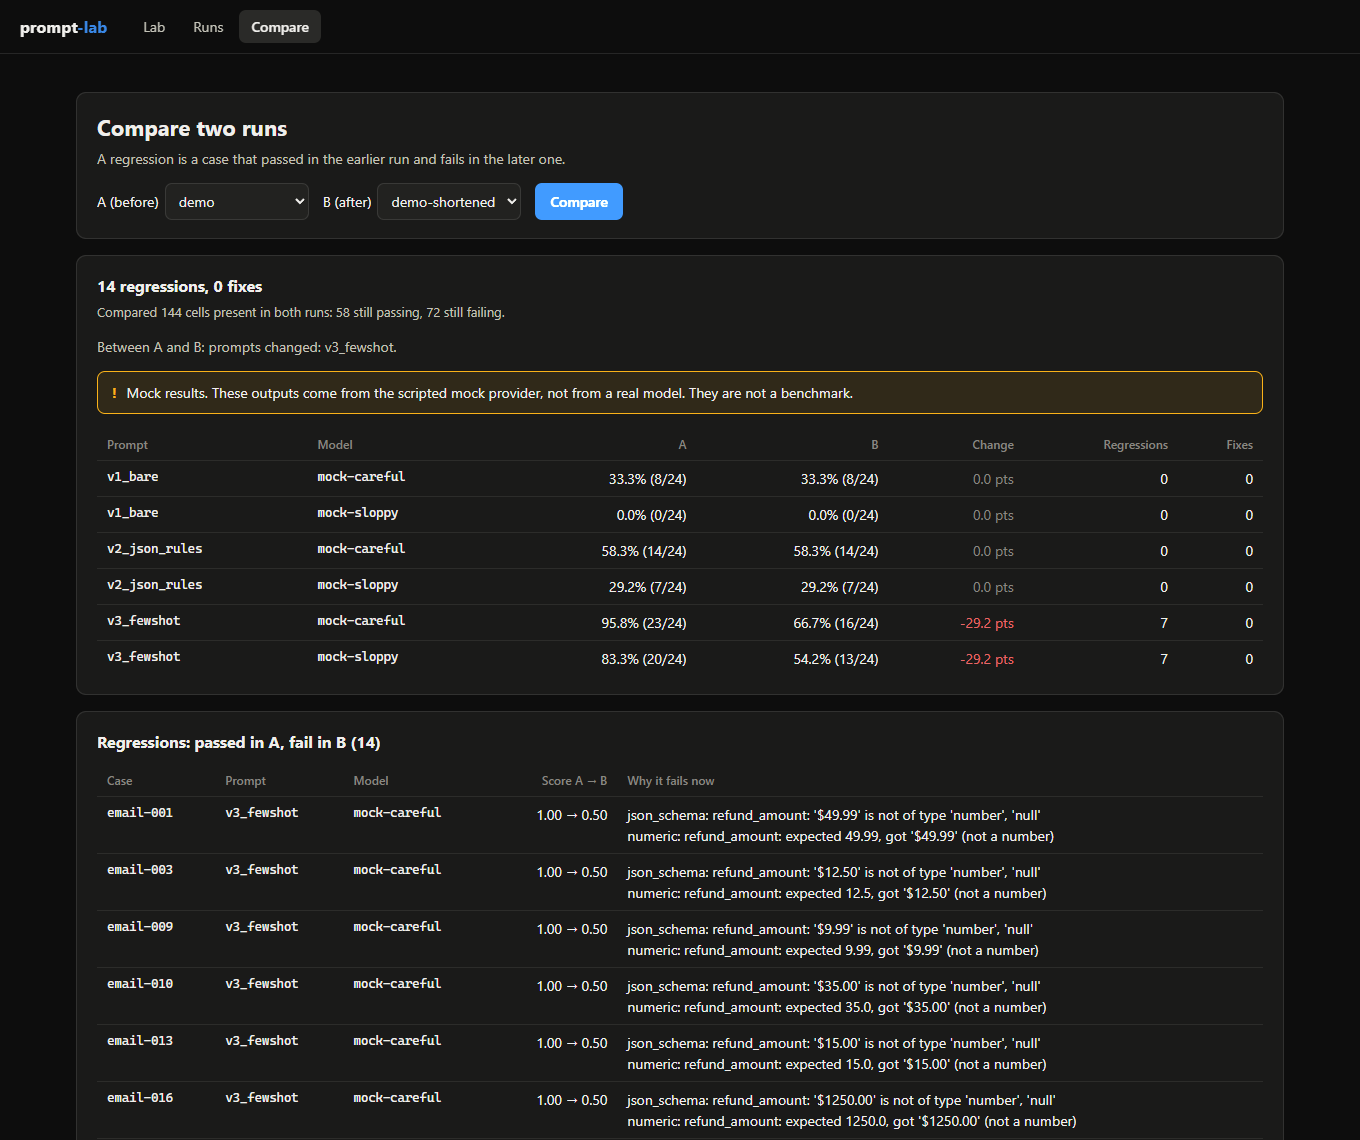
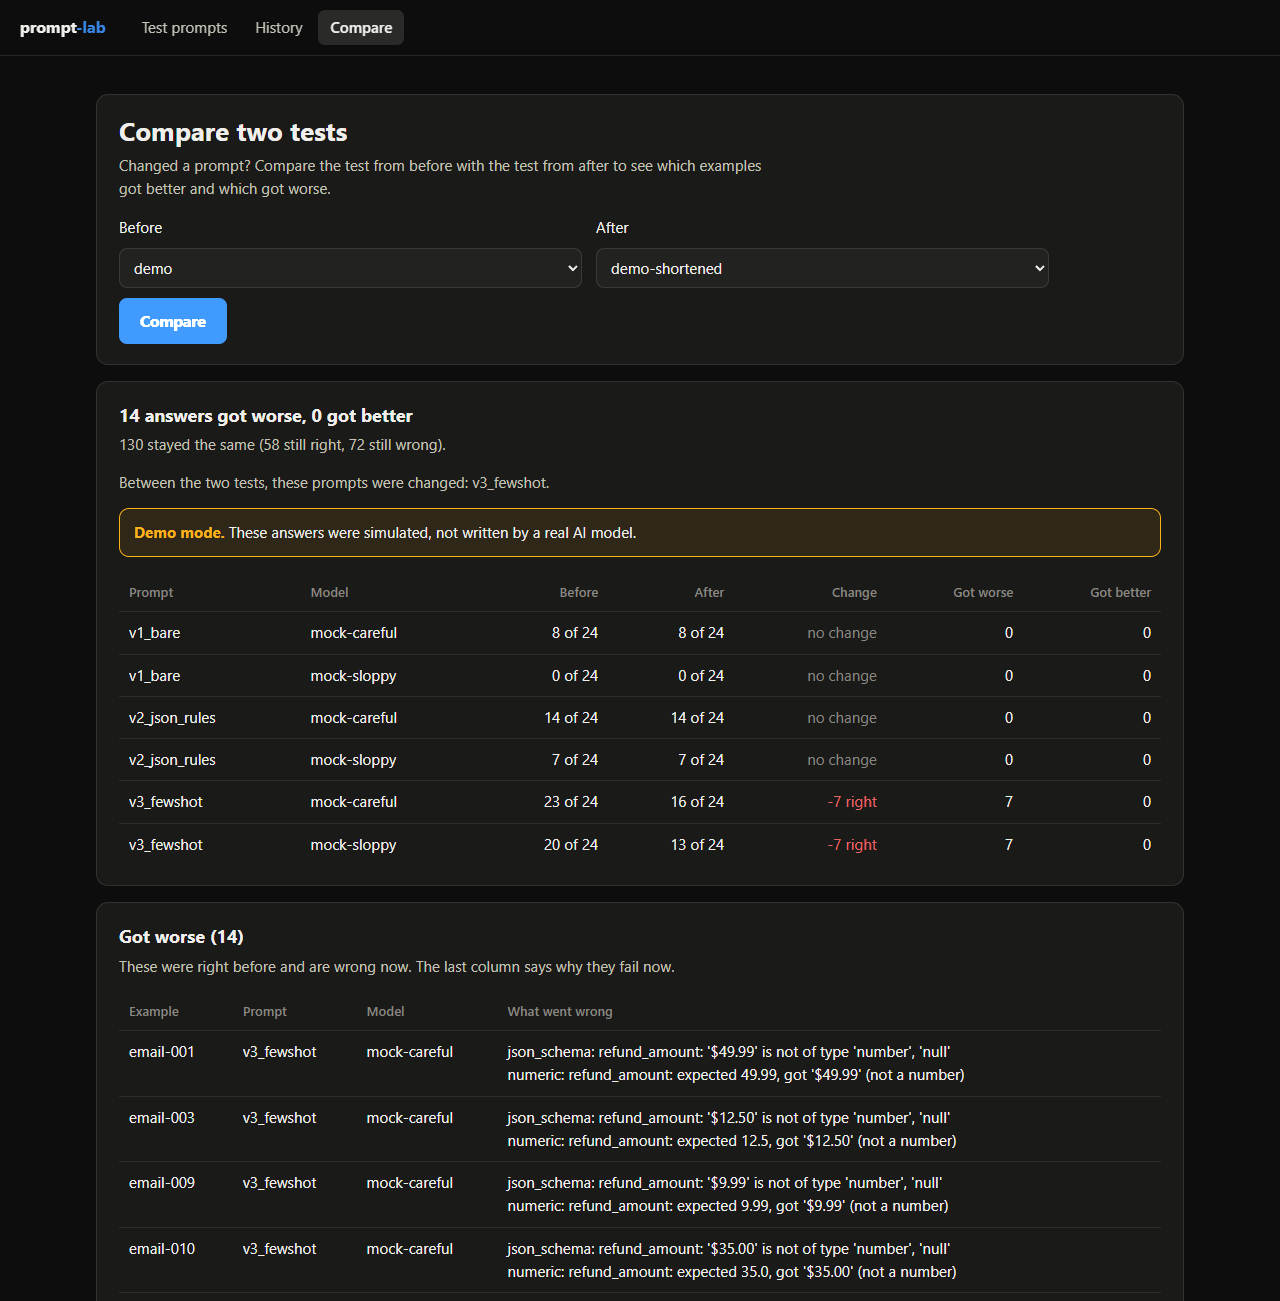
README: update the web app section and screenshots

diff --git a/README.md b/README.md
@@ -6,7 +6,7 @@
 
 A small evaluation tool for LLM prompts. It runs several prompt variants (and optionally several models) over a test set, scores every output with pluggable scorers, saves the run, and shows the results side by side. It can also diff two runs and list the cases that passed before and fail now. Use it from a local web app or from the command line.
 
-![The prompt-lab web app: an experiment with three editable prompt variants and two models](docs/screenshots/app-lab.png)
+![The prompt-lab web app: pick a task, edit the prompt versions, choose the model](docs/screenshots/app-lab.png)
 
 > **The screenshots and numbers in this README are mock results.** They come from a scripted, offline mock provider, not from a real model. They show how the tool works. They are not a benchmark of any model. See [What the demo is](#what-the-demo-is).
 
@@ -32,7 +32,7 @@ Changing a prompt is easy. Knowing whether the change made things better is not.
 - **Saves every run.** `results.jsonl` plus `summary.json`, with the config hash and timestamp.
 - **Reports.** A terminal table, and a self-contained HTML report with a chart, a side-by-side grid, a per-case drill-down and the worst failures.
 - **Compares two runs** and lists regressions, with a `--fail-on-regression` exit code for CI.
-- **Runs offline.** A deterministic mock provider drives the demo and all 278 tests. No key or network is needed.
+- **Runs offline.** A deterministic mock provider drives the demo and all 279 tests. No key or network is needed.
 
 ## Quick start
 
@@ -57,20 +57,24 @@ prompt-lab ui
 prompt-lab is running at http://127.0.0.1:8321  (press Ctrl+C to stop)
 ```
 
-It opens in your browser and lists the experiment files in the current folder and in `examples/`. The demo experiments use the mock provider, so they need no API key. The page has four steps:
+It opens in your browser. The page is written for someone who has never used the tool: it uses plain words ("examples", "checks", "got worse") and keeps the technical details behind **Details** and **Advanced**. The demo tasks use the mock provider, shown in the app as **Demo mode**, so they need no API key.
 
-1. **Prompts.** Each variant is a card you can edit, rename, remove or copy. Edits stay in the page; they are not written back to the experiment file.
-2. **Models.** Tick the models to run. A model whose API key is not set is shown as unavailable, with the reason.
-3. **Try one input.** Type an input or load a test case, set the expected answer, and press **Run this input**. Each variant's output appears side by side with its verdict and the reason from every scorer.
-4. **Run the whole test set.** Shows how many calls the run will make and how many are cached, then runs with a progress bar. The run is saved, with the prompts as you edited them.
+Pick a task at the top, then follow four steps:
 
-![Trying one input: the email, the expected answer, and three prompt variants with their outputs and scorer reasons](docs/screenshots/app-try.png)
+1. **Your prompts.** Each version is a box you can edit, rename, remove or copy. Edits stay in the page; they are not written back to the experiment file.
+2. **Which AI answers.** Tick the models to use. A model whose API key is not set is shown as not ready.
+3. **Quick test on one example.** Pick an example or write your own, and press **Test this example**. Each prompt's answer appears side by side, marked Passed or Failed, with every check listed in plain words.
+4. **Full test on all examples.** Press **Run the full test**. A progress bar runs, then the page names the best prompt and shows a bar for each one, with its most common problem. The test is saved, with the prompts as you edited them.
 
-The **Runs** tab lists saved runs and opens the full report for each. The **Compare** tab diffs two runs:
+![Quick test on one example: the email, the correct answer, and three prompt versions marked Passed or Failed with the checks listed](docs/screenshots/app-try.png)
 
-![Comparing two runs in the web app: 14 regressions after a prompt was shortened](docs/screenshots/app-compare.png)
+![Full test result: the best prompt named, and a bar per prompt with its most common problem](docs/screenshots/app-results.png)
 
-With the mock models, the answer does not depend on the text you type. The mock builds it from the expected answer and the scripted rules, and the app says so next to the input box. What does change the result is the wording of your prompts, because some rules look for it. Add `Respond with only a JSON object.` to `v1_bare`, press **Run all cases**, and its pass rate for `mock-careful` goes from 8/24 to 14/24. To have your typed input read and answered, use a real model: see [Using a real model](#using-a-real-model).
+The **History** tab lists saved tests and opens the full report for each. The **Compare** tab shows what got worse and what got better between two tests:
+
+![Comparing two tests in the web app: 14 answers got worse after a prompt was shortened](docs/screenshots/app-compare.png)
+
+In demo mode, the answer does not depend on the text you type. The mock builds it from the correct answer and the scripted rules, and the app says so next to the input box. What does change the result is the wording of your prompts, because some rules look for it. In the "Support email extraction" task, add `Respond with only a JSON object.` to `v1_bare`, press **Run the full test**, and it goes from 8 of 24 right to 14 of 24 for `mock-careful`. To have your typed input read and answered, use a real model: see [Using a real model](#using-a-real-model).
 
 The app is for your own machine. It listens on `127.0.0.1` only and refuses requests that come from other sites' pages, because a run can spend money on model calls.
 
@@ -525,7 +529,7 @@ pytest -q
 ```
 
 ```text
-278 passed in 23.97s
+279 passed in 27.03s
 ```
 
 Every test runs offline. A fixture refuses any network connection that leaves the machine, so a test that tried to reach an API would fail. Covered: each scorer, the runner (concurrency limits, timeouts, retries, error containment), the cache, cost estimation, storage, the HTML report (including escaping of hostile model output), `compare`, the CLI end to end, and the web app's server (trying an input, edited prompts, background runs, and refusing cross-site requests). The web page itself was checked by hand and with a scripted browser session, not by the test suite. GitHub Actions runs the tests and the mock demo on every push.
